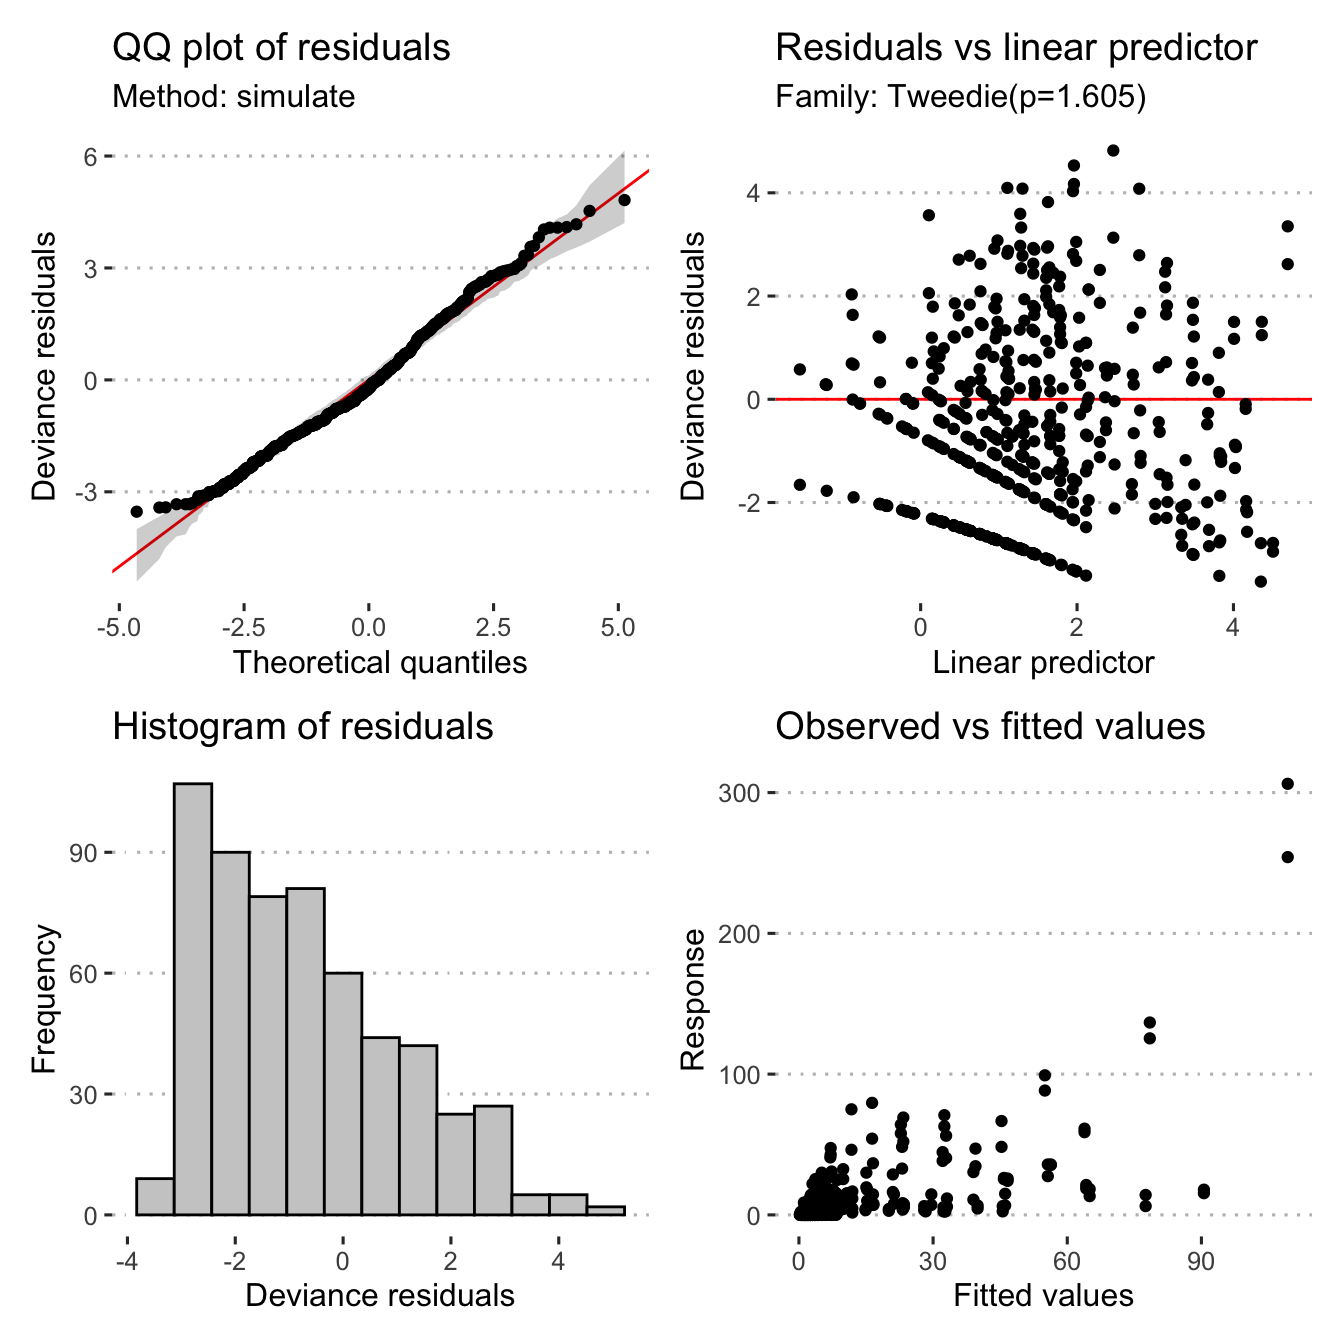
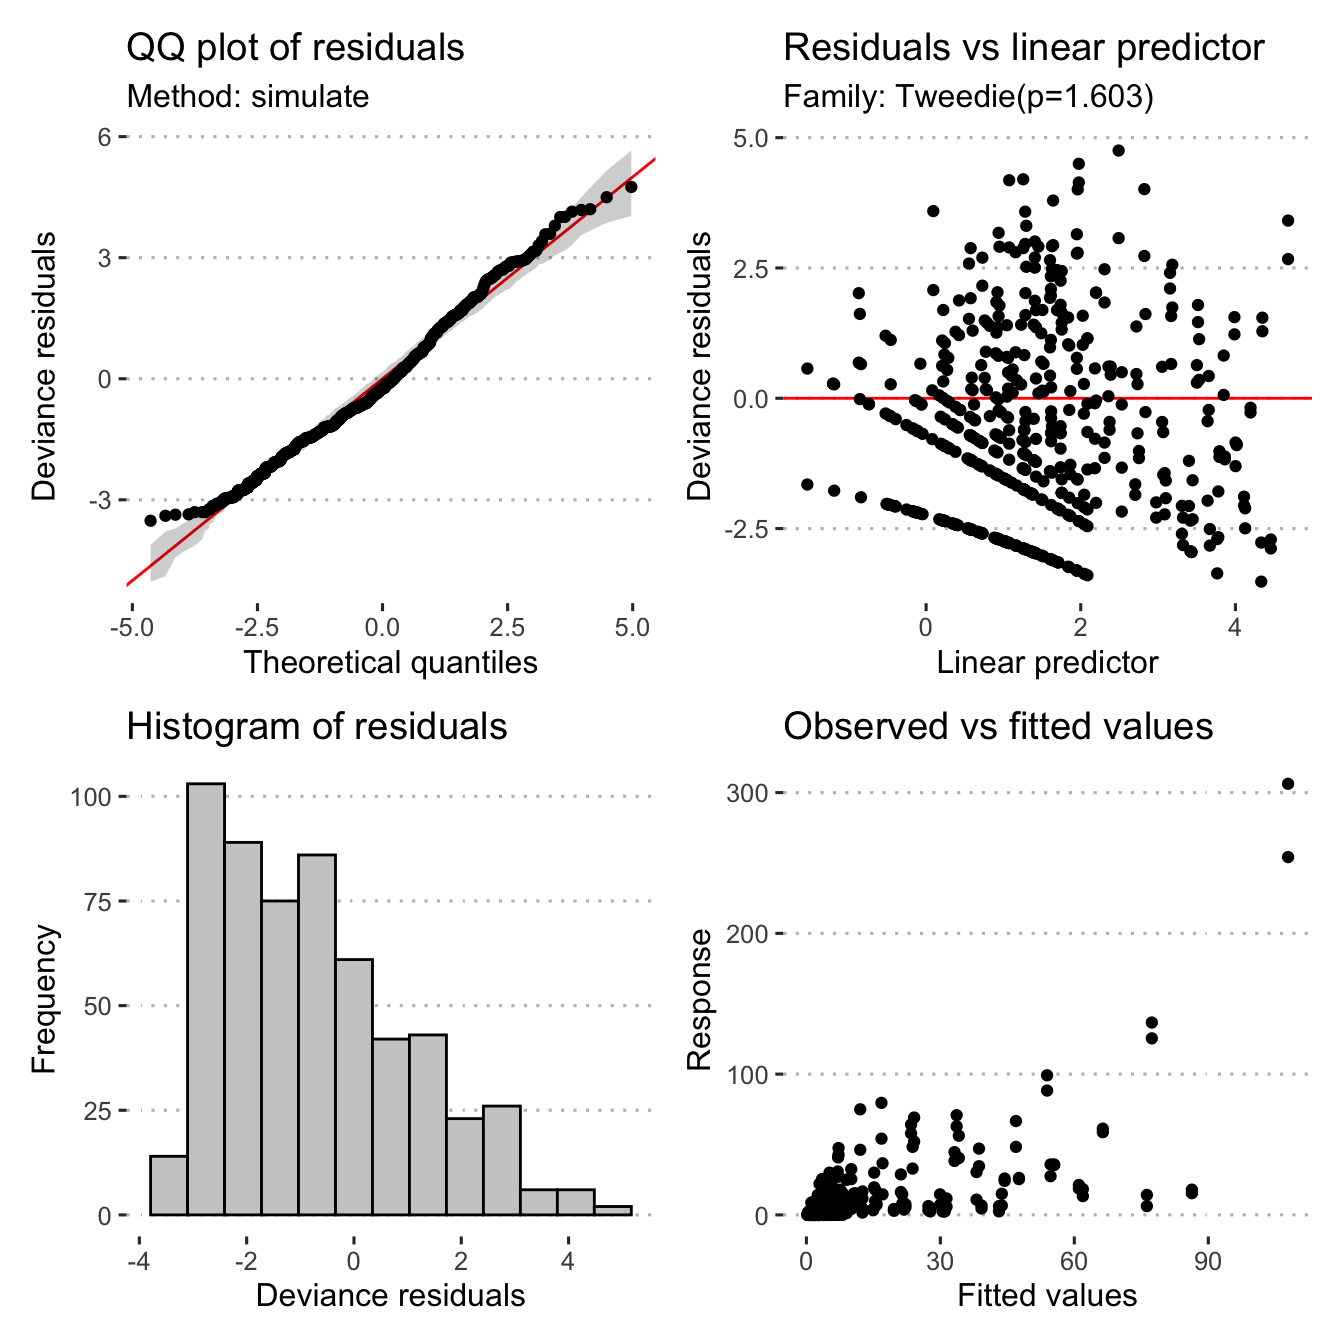
Revise model fit, better R2 now and all predictors are significant

diff --git a/model.html b/model.html
@@ -615,39 +615,41 @@ m5</code></pre>
 ## 
 ## REML score: 1548.587</code></pre>
 </div>
-<div id="model-5.1" class="section level3">
-<h3>Model 5.1</h3>
-<pre class="r"><code>m5.1 &lt;- gam(
-  spore_cm2 ~ time_min + downwind + distance_m +
-    s(wind_speed, k = 6) +
-    s(field, bs = &quot;re&quot;),
+<div id="model-6" class="section level3">
+<h3>Model 6</h3>
+<ul>
+<li>Response: <code>spore_cm2</code></li>
+<li>Linear predictors: <code>time_min</code>, <code>distance_m</code>, <code>downwind</code></li>
+<li>Random effects: <code>field</code></li>
+</ul>
+<pre class="r"><code>m6 &lt;- gam(
+  spore_cm2 ~ time_min + distance_m + downwind + s(field, bs = &quot;re&quot;),
   method = &quot;REML&quot;,
   data = mod_dat,
   family = &quot;tw&quot;
 )
-m5.1</code></pre>
+m6</code></pre>
 <pre><code>## 
-## Family: Tweedie(p=1.605) 
+## Family: Tweedie(p=1.603) 
 ## Link function: log 
 ## 
 ## Formula:
-## spore_cm2 ~ time_min + downwind + distance_m + s(wind_speed, 
-##     k = 6) + s(field, bs = &quot;re&quot;)
+## spore_cm2 ~ time_min + distance_m + downwind + s(field, bs = &quot;re&quot;)
 ## 
 ## Estimated degrees of freedom:
-## 1.64 2.77  total = 9.41 
+## 4.59  total = 9.59 
 ## 
-## REML score: 1552.389</code></pre>
+## REML score: 1553.303</code></pre>
 </div>
-<div id="model-6" class="section level3">
-<h3>Model 6</h3>
+<div id="model-7" class="section level3">
+<h3>Model 7</h3>
 <ul>
 <li>Response: <code>spore_cm2</code></li>
 <li>Linear predictors: <code>time_min</code>, <code>distance_m</code>, <code>downwind</code>, <code>wind_speed</code>, <code>rel_hum</code>, <code>temp</code>, <code>wind_speed</code>, <code>smut_incidence</code></li>
 <li>Smoothed predictors: <code>distance_m</code></li>
 <li>Random effects: <code>field</code>, <code>time_min</code></li>
 </ul>
-<pre class="r"><code>m6 &lt;- gam(
+<pre class="r"><code>m7 &lt;- gam(
   spore_cm2 ~ distance_m + downwind + time_min +
     s(wind_speed, k = 6) +
     s(field, bs = &quot;re&quot;),
@@ -655,7 +657,7 @@ m5.1</code></pre>
   data = mod_dat,
   family = &quot;tw&quot;
 )
-m6</code></pre>
+m7</code></pre>
 <pre><code>## 
 ## Family: Tweedie(p=1.605) 
 ## Link function: log 
@@ -680,57 +682,55 @@ m6</code></pre>
   m4 = m4,
   m4.1 = m4.1,
   m5 = m5,
-  m5.1 = m5.1,
-  m6 = m6
+  m6 = m6,
+  m7 = m7
 )
 map_df(models, glance, .id = &quot;model&quot;) %&gt;%
   arrange(AIC)</code></pre>
 <pre><code>## # A tibble: 8 × 8
 ##   model    df logLik   AIC   BIC deviance df.residual  nobs
 ##   &lt;chr&gt; &lt;dbl&gt;  &lt;dbl&gt; &lt;dbl&gt; &lt;dbl&gt;    &lt;dbl&gt;       &lt;dbl&gt; &lt;int&gt;
-## 1 m5     9.59 -1528. 3079. 3131.    2097.        566.   576
-## 2 m4     9.46 -1528. 3079. 3131.    2097.        567.   576
-## 3 m4.1   9.46 -1528. 3079. 3131.    2097.        567.   576
-## 4 m5.1   9.41 -1528. 3079. 3131.    2097.        567.   576
-## 5 m6     9.41 -1528. 3079. 3131.    2097.        567.   576
+## 1 m6     9.59 -1528. 3079. 3130.    2097.        566.   576
+## 2 m5     9.59 -1528. 3079. 3131.    2097.        566.   576
+## 3 m4     9.46 -1528. 3079. 3131.    2097.        567.   576
+## 4 m4.1   9.46 -1528. 3079. 3131.    2097.        567.   576
+## 5 m7     9.41 -1528. 3079. 3131.    2097.        567.   576
 ## 6 m2     8.62 -1562. 3147. 3194.    2295.        567.   576
 ## 7 m3     8.62 -1562. 3147. 3194.    2295.        567.   576
 ## 8 m1     6.72 -1699. 3416. 3455.    3265.        569.   576</code></pre>
-<p>Based on the AIC, model m5.1 looks to be the best model for our data.</p>
+<p>Based on the AIC, model m6 looks to be the best model for our data.</p>
 </div>
-<div id="inspect-model-m5.1" class="section level2">
-<h2>Inspect model m5.1</h2>
-<pre class="r"><code>appraise(m5.1)</code></pre>
-<p><img src="model_files/figure-html/summarise-m5-1.png" width="672" /></p>
-<pre class="r"><code>summary(m5.1)</code></pre>
+<div id="inspect-model-m6" class="section level2">
+<h2>Inspect model m6</h2>
+<pre class="r"><code>appraise(m6)</code></pre>
+<p><img src="model_files/figure-html/summarise-m6-1.png" width="672" /></p>
+<pre class="r"><code>summary(m6)</code></pre>
 <pre><code>## 
-## Family: Tweedie(p=1.605) 
+## Family: Tweedie(p=1.603) 
 ## Link function: log 
 ## 
 ## Formula:
-## spore_cm2 ~ time_min + downwind + distance_m + s(wind_speed, 
-##     k = 6) + s(field, bs = &quot;re&quot;)
+## spore_cm2 ~ time_min + distance_m + downwind + s(field, bs = &quot;re&quot;)
 ## 
 ## Parametric coefficients:
 ##                   Estimate Std. Error t value Pr(&gt;|t|)    
-## (Intercept)      3.5617472  0.2319278  15.357  &lt; 2e-16 ***
-## time_min         0.0036833  0.0007147   5.154 3.53e-07 ***
-## downwindlateral -2.2142633  0.1303586 -16.986  &lt; 2e-16 ***
-## downwindupwind  -3.2390925  0.1928119 -16.799  &lt; 2e-16 ***
-## distance_m      -0.0034339  0.0004714  -7.285 1.09e-12 ***
+## (Intercept)      3.5277770  0.2730250  12.921  &lt; 2e-16 ***
+## time_min         0.0036944  0.0007135   5.178 3.12e-07 ***
+## distance_m      -0.0034690  0.0004707  -7.370 6.07e-13 ***
+## downwindlateral -2.1506668  0.1305058 -16.479  &lt; 2e-16 ***
+## downwindupwind  -3.2287850  0.1927349 -16.752  &lt; 2e-16 ***
 ## ---
 ## Signif. codes:  0 &#39;***&#39; 0.001 &#39;**&#39; 0.01 &#39;*&#39; 0.05 &#39;.&#39; 0.1 &#39; &#39; 1
 ## 
 ## Approximate significance of smooth terms:
-##                 edf Ref.df     F p-value   
-## s(wind_speed) 1.639  1.707 4.843  0.0355 * 
-## s(field)      2.769  4.000 2.877  0.0012 **
+##            edf Ref.df     F p-value    
+## s(field) 4.592      5 11.57  &lt;2e-16 ***
 ## ---
 ## Signif. codes:  0 &#39;***&#39; 0.001 &#39;**&#39; 0.01 &#39;*&#39; 0.05 &#39;.&#39; 0.1 &#39; &#39; 1
 ## 
-## R-sq.(adj) =  0.433   Deviance explained = 48.1%
-## -REML = 1552.4  Scale est. = 3.0123    n = 576</code></pre>
-<pre class="r"><code>draw(m5.1)</code></pre>
+## R-sq.(adj) =  0.446   Deviance explained = 48.2%
+## -REML = 1553.3  Scale est. = 3.0105    n = 576</code></pre>
+<pre class="r"><code>draw(m6)</code></pre>
 <p><img src="model_files/figure-html/visualise-gam-1.png" width="672" /></p>
 </div>
 <div id="predict-spore-dispersal" class="section level2">
@@ -745,23 +745,16 @@ map_df(models, glance, .id = &quot;model&quot;) %&gt;%
   wind_speed = 0:30,
   field = 5
 )
-newd$pred_spore_cm2 &lt;- predict.gam(m5.1, newd)</code></pre>
+newd$pred_spore_cm2 &lt;- predict(m6, newd)</code></pre>
 </div>
 <div id="visualise-spore-dispersal-predictions" class="section level2">
 <h2>Visualise spore dispersal predictions</h2>
+<p>The GAM will predict spores to disperse at negative values, since this is not possible, we will set any values that are less than zero to zero in the model’s output before plotting.</p>
 <pre class="r"><code>newd %&gt;%
+  mutate(pred_spore_cm2 = replace(pred_spore_cm2, pred_spore_cm2 &lt; 0, 0)) %&gt;%
   ggplot(aes(x = distance_m, y = pred_spore_cm2, col = downwind)) +
-  stat_summary(
-    mapping = aes(x = distance_m, y = pred_spore_cm2),
-    fun.min = function(z) {
-      quantile(z, 0.25)
-    },
-    fun.max = function(z) {
-      quantile(z, 0.75)
-    },
-    fun = median
-  ) +
-geom_smooth() +
+  geom_point() +
+  geom_smooth() +
   scale_fill_viridis_d(&quot;Prevailing wind&quot;) +
   scale_colour_viridis_d(&quot;Prevailing Wind&quot;) +
   facet_grid(. ~ time_min) +
@@ -783,9 +776,9 @@ geom_smooth() +
   guides(fill = guide_legend(title.position = &quot;top&quot;,
                              title.hjust = 0.5))</code></pre>
 <div class="figure">
-<img src="model_files/figure-html/graph-predictions-1.png" alt="Predictions of spore dispersal at 0 to 400m. Points indicate median values with upper and lower 25% quartile and 75% quartiles represented with vertical lines with a smoothed line fit through the points." width="672" />
+<img src="model_files/figure-html/graph-predictions-1.png" alt="Predictions of spore dispersal (spores per meter squared) at 0m to 400m for three time points, 90 min, 180 min, 270 min after peanut harvest commenced." width="672" />
 <p class="caption">
-Predictions of spore dispersal at 0 to 400m. Points indicate median values with upper and lower 25% quartile and 75% quartiles represented with vertical lines with a smoothed line fit through the points.
+Predictions of spore dispersal (spores per meter squared) at 0m to 400m for three time points, 90 min, 180 min, 270 min after peanut harvest commenced.
 </p>
 </div>
 <pre class="r"><code>ggsave(
